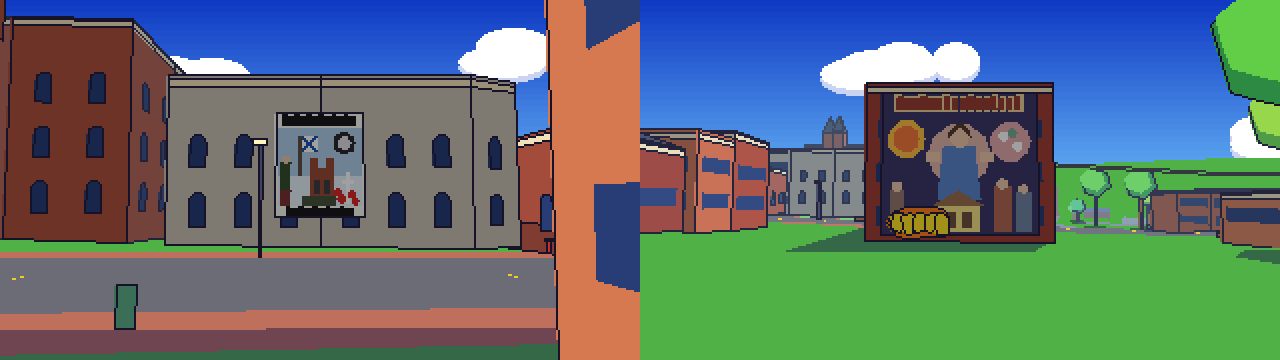
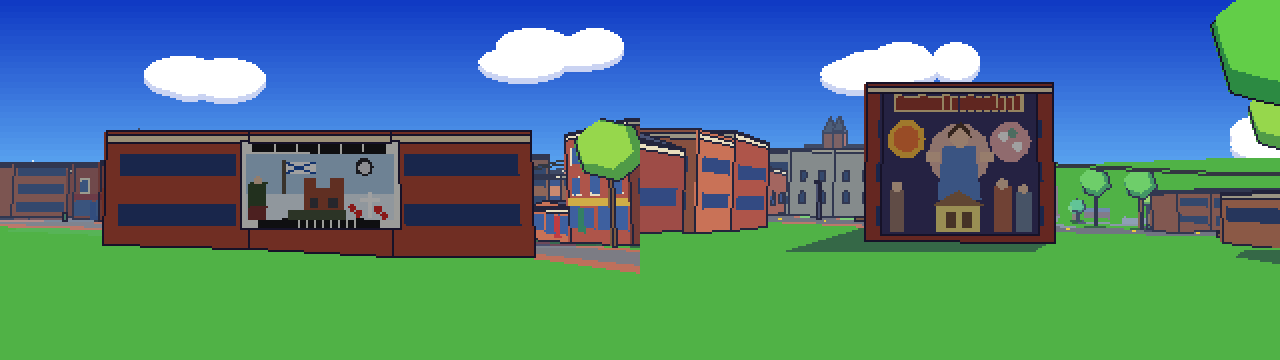
Move the North Nova Scotia Highlanders mural to the wall facing Ratchford and Havelock Streets (it was on the Dominion Building); no graffiti over a mural
The Veterans Affairs Canada memorial inventory places the mural at the corner of Ratchford and Havelock
Streets (45.8341327, -64.21131): the east wall of the brick building on that corner. A real-map test
checks the spot. Graffiti tags no longer land on a mural's wall (one covered part of the Mystery mural),
in the game and in the native bake.

diff --git a/game/render3d.py b/game/render3d.py
@@ -263,6 +263,16 @@ def default_height(b, i, area):
     return 7.5 + j * 2.5              # big footprints are shops and plants: wide but low
 
 
+def mural_wall(walls, mural):
+    """Index of the wall a building's mural is painted on: the one facing most nearly its "facing" bearing.
+    walls: (x0, y0, x1, y1, nx, ny, ...) with outward normals. None when there is no mural."""
+    if not mural or not walls:
+        return None
+    fb = math.radians(mural.get("facing", 0.0))
+    fx, fy = math.sin(fb), -math.cos(fb)
+    return max(range(len(walls)), key=lambda k: walls[k][4] * fx + walls[k][5] * fy)
+
+
 def graffiti_ok(b, area):
     """Tags go on downtown and commercial walls, not on family homes or landmarks (heritage and civic buildings)."""
     kind = b.get("tags", {}).get("building", "")
@@ -606,9 +616,10 @@ class Renderer3D:
             house = archetypes.classify(self.world.buildings[i], i)
             if house and house["kind"] != "apartment":
                 continue                                        # nobody tags the side of a family home
+            painted = mural_wall(walls, self.world.buildings[i].get("mural"))
             for wi, (x0, y0, x1, y1, _nx, _ny, _sh) in enumerate(walls):
                 L = math.hypot(x1 - x0, y1 - y0)
-                if L < 5.0:
+                if L < 5.0 or wi == painted:                    # (nobody tags over a mural)
                     continue
                 rng = random.Random(i * 7919 + wi * 104729 + 17)
                 if rng.random() > 0.3:
@@ -1745,10 +1756,7 @@ class Renderer3D:
         m = self.extras[idx]["mural"]
         key = ("mural", idx)
         if key not in self._houses:
-            fb = math.radians(m.get("facing", 0.0))
-            fx, fy = math.sin(fb), -math.cos(fb)
-            walls = self.buildings[idx][4]
-            self._houses[key] = max(range(len(walls)), key=lambda k: walls[k][4] * fx + walls[k][5] * fy)
+            self._houses[key] = mural_wall(self.buildings[idx][4], m)
         if wi != self._houses[key] or m.get("design") not in murals.DESIGNS:
             return
         whole = self.buildings[idx][4][wi]

diff --git a/tests/test_realmap.py b/tests/test_realmap.py
@@ -129,6 +129,30 @@ class RealAmherstTests(unittest.TestCase):
         cls.world = World.load(REAL_MAP)
         cls.graph = RoadGraph(cls.world.roads)
 
+    def test_highlanders_mural_is_at_ratchford_and_havelock(self):
+        """The North Nova Scotia Highlanders mural is on the wall facing the corner of Ratchford and Havelock Streets
+        (Veterans Affairs Canada's memorial inventory, GPS 45.8341327, -64.21131), not on the Dominion Building."""
+        import json
+        from game import mapedits
+        with open(REAL_MAP) as f:
+            px, py = mapedits._project(json.load(f)["meta"], 45.8341327, -64.21131)
+        found = [b for b in self.world.buildings if (b.get("mural") or {}).get("design") == "highlanders"]
+        self.assertEqual(len(found), 1)
+        b = found[0]
+        self.assertNotEqual(b.get("label"), "Dominion Building")
+        m, pts = b["mural"], [tuple(p) for p in b["points"]]
+        area = sum(pts[k][0] * pts[k - 1][1] - pts[k - 1][0] * pts[k][1] for k in range(len(pts)))
+        fx, fy = math.sin(math.radians(m["facing"])), -math.cos(math.radians(m["facing"]))
+        walls = []
+        for a, c in zip(pts, pts[1:] + pts[:1]):   # outward normals (render3d's rule), as the renderer picks the wall
+            L = math.hypot(c[0] - a[0], c[1] - a[1]) or 1.0
+            nx, ny = ((c[1] - a[1]) / L, -(c[0] - a[0]) / L) if area < 0 else (-(c[1] - a[1]) / L, (c[0] - a[0]) / L)
+            walls.append((a, c, nx, ny))
+        a, c, nx, ny = max(walls, key=lambda w: w[2] * fx + w[3] * fy)
+        mx, my = (a[0] + c[0]) / 2, (a[1] + c[1]) / 2
+        self.assertGreater((px - mx) * nx + (py - my) * ny, 0, "the listed spot is not in front of the painted wall")
+        self.assertLess(math.hypot(px - mx, py - my), 20.0, "the painted wall is not at the listed corner")
+
     def test_spawn_is_on_a_road(self):
         x, y, _h = self.world.spawn()
         self.assertTrue(self.world.on_road(x, y))

diff --git a/tests/test_extend.py b/tests/test_extend.py
@@ -243,6 +243,25 @@ class Murals(unittest.TestCase):
         self.assertTrue(got & red, "no poppies: the mural is not on the north wall")
 
 
+    def test_no_graffiti_over_a_mural(self):
+        """Tags go on about 30% of long commercial walls by a fixed seed; never on the wall with a mural."""
+        pygame.init()
+        data = make_sample_map.build()
+        data["roads"] = [{"type": "side", "width": 8, "name": "Elm St", "points": [[-400, 0], [400, 0]]}]
+        data["buildings"] = [{"points": [[x, 10], [x + 30, 10], [x + 30, 40], [x, 40]], "tags": {"building": "yes"},
+                              "height": 10.0, "material": "brick",
+                              "mural": {"design": "highlanders", "facing": float(f), "width": 8.0}}
+                             for x in range(-380, 380, 40) for f in (0,)]
+        world = World(data)
+        r = R.Renderer3D(world, style="street")
+        tagged_mural_walls = 0
+        for i, tags in r.graffiti.items():
+            painted = R.mural_wall(r.buildings[i][4], world.buildings[i]["mural"])
+            tagged_mural_walls += painted in tags
+        self.assertTrue(r.graffiti, "no tags at all: the test proves nothing")
+        self.assertEqual(tagged_mural_walls, 0)
+
+
 class ParkingLots(unittest.TestCase):
     LOT = {"points": [[0, 0], [60, 0], [60, 40], [0, 40]], "area": 2400}
 

diff --git a/tools/bake_native.py b/tools/bake_native.py
@@ -218,7 +218,7 @@ def _decorations(world, baked_index):
     """DECO entries: every graffiti tag and mural shape as world-space triangles (see the format above)."""
     import random
     from game import archetypes, murals
-    from game.render3d import Renderer3D, default_height, graffiti_ok
+    from game.render3d import Renderer3D, default_height, graffiti_ok, mural_wall
     out = []
 
     def shape(bi, nx, ny, rgb, pts3):
@@ -250,9 +250,10 @@ def _decorations(world, baked_index):
         bi = baked_index[i]
         house = archetypes.classify(b, i)
         if h >= 3.0 and graffiti_ok(b, abs(area)) and not (house and house["kind"] != "apartment"):
+            painted = mural_wall(walls, b.get("mural"))
             for wi, (x0, y0, x1, y1, nx, ny) in enumerate(walls):  # _prep_graffiti: about 30% of the longer walls
                 L = math.hypot(x1 - x0, y1 - y0)
-                if L < 5.0:
+                if L < 5.0 or wi == painted:                     # (never over a mural)
                     continue
                 rng = random.Random(i * 7919 + wi * 104729 + 17)
                 if rng.random() > 0.3:

diff --git a/tools/readme_shots.py b/tools/readme_shots.py
@@ -212,7 +212,8 @@ def shot_lighthouse():
 
 
 def shot_murals():
-    save("murals", grid([look_at(414.9, -911.7, 118, 26, 3), look_at(400.4, -983.4, 25, 28, 3)], 2), scale=2)
+    # the Highlanders mural on the wall facing Ratchford and Havelock Streets; the Mystery mural on LaPlanche St
+    save("murals", grid([look_at(506.8, -890.7, 116, 24, 3), look_at(400.4, -983.4, 25, 28, 3)], 2), scale=2)
 
 
 def shot_parking():

diff --git a/README.md b/README.md
@@ -61,8 +61,8 @@ hardware so far.
 
 ![Downtown murals](docs/images/murals.png)
 
-The North Nova Scotia Highlanders memorial on the Town Hall and The Great Amherst Mystery on LaPlanche St (simplified
-panels of the real murals).
+The North Nova Scotia Highlanders memorial at the corner of Ratchford and Havelock Streets and The Great Amherst Mystery
+on LaPlanche St (simplified panels of the real murals).
 
 ## How Amherst was built
 The town is assembled in layers, each from the best source available, and each layer can be refreshed with its own tool:

diff --git a/CHANGELOG.md b/CHANGELOG.md
@@ -9,6 +9,11 @@ set `__version__` in `game/__init__.py` to `X.Y.Z`, and update the link referenc
 
 ## [Unreleased]
 
+### Fixed
+- The North Nova Scotia Highlanders mural was on the Dominion Building (98 Victoria St E). It is now on the wall
+  facing the corner of Ratchford and Havelock Streets, where Veterans Affairs Canada's memorial inventory places it;
+  a real-map test checks the spot.
+
 ## [1.0.5] - 2026-11-22
 
 ### Added
